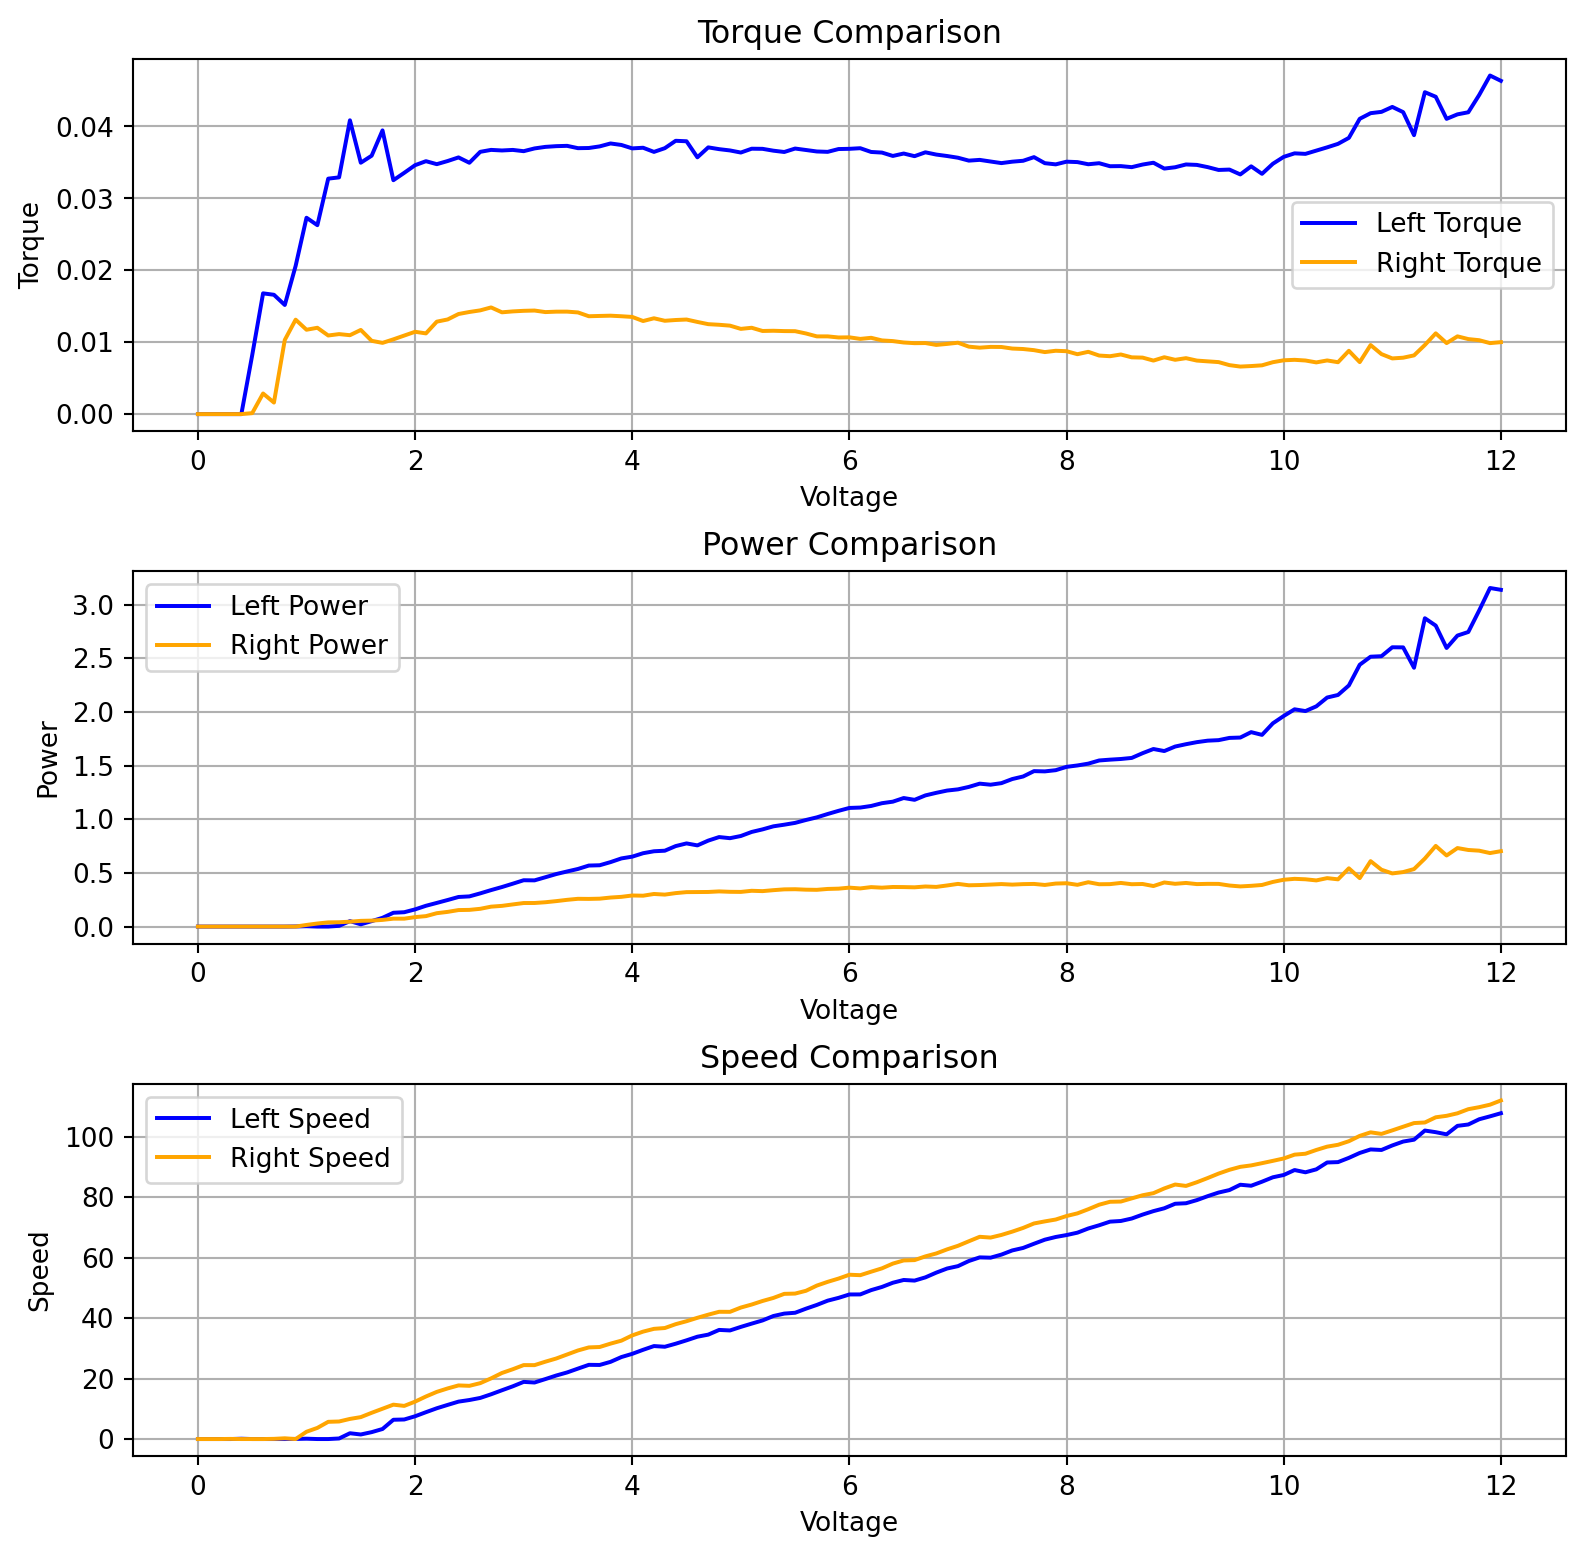
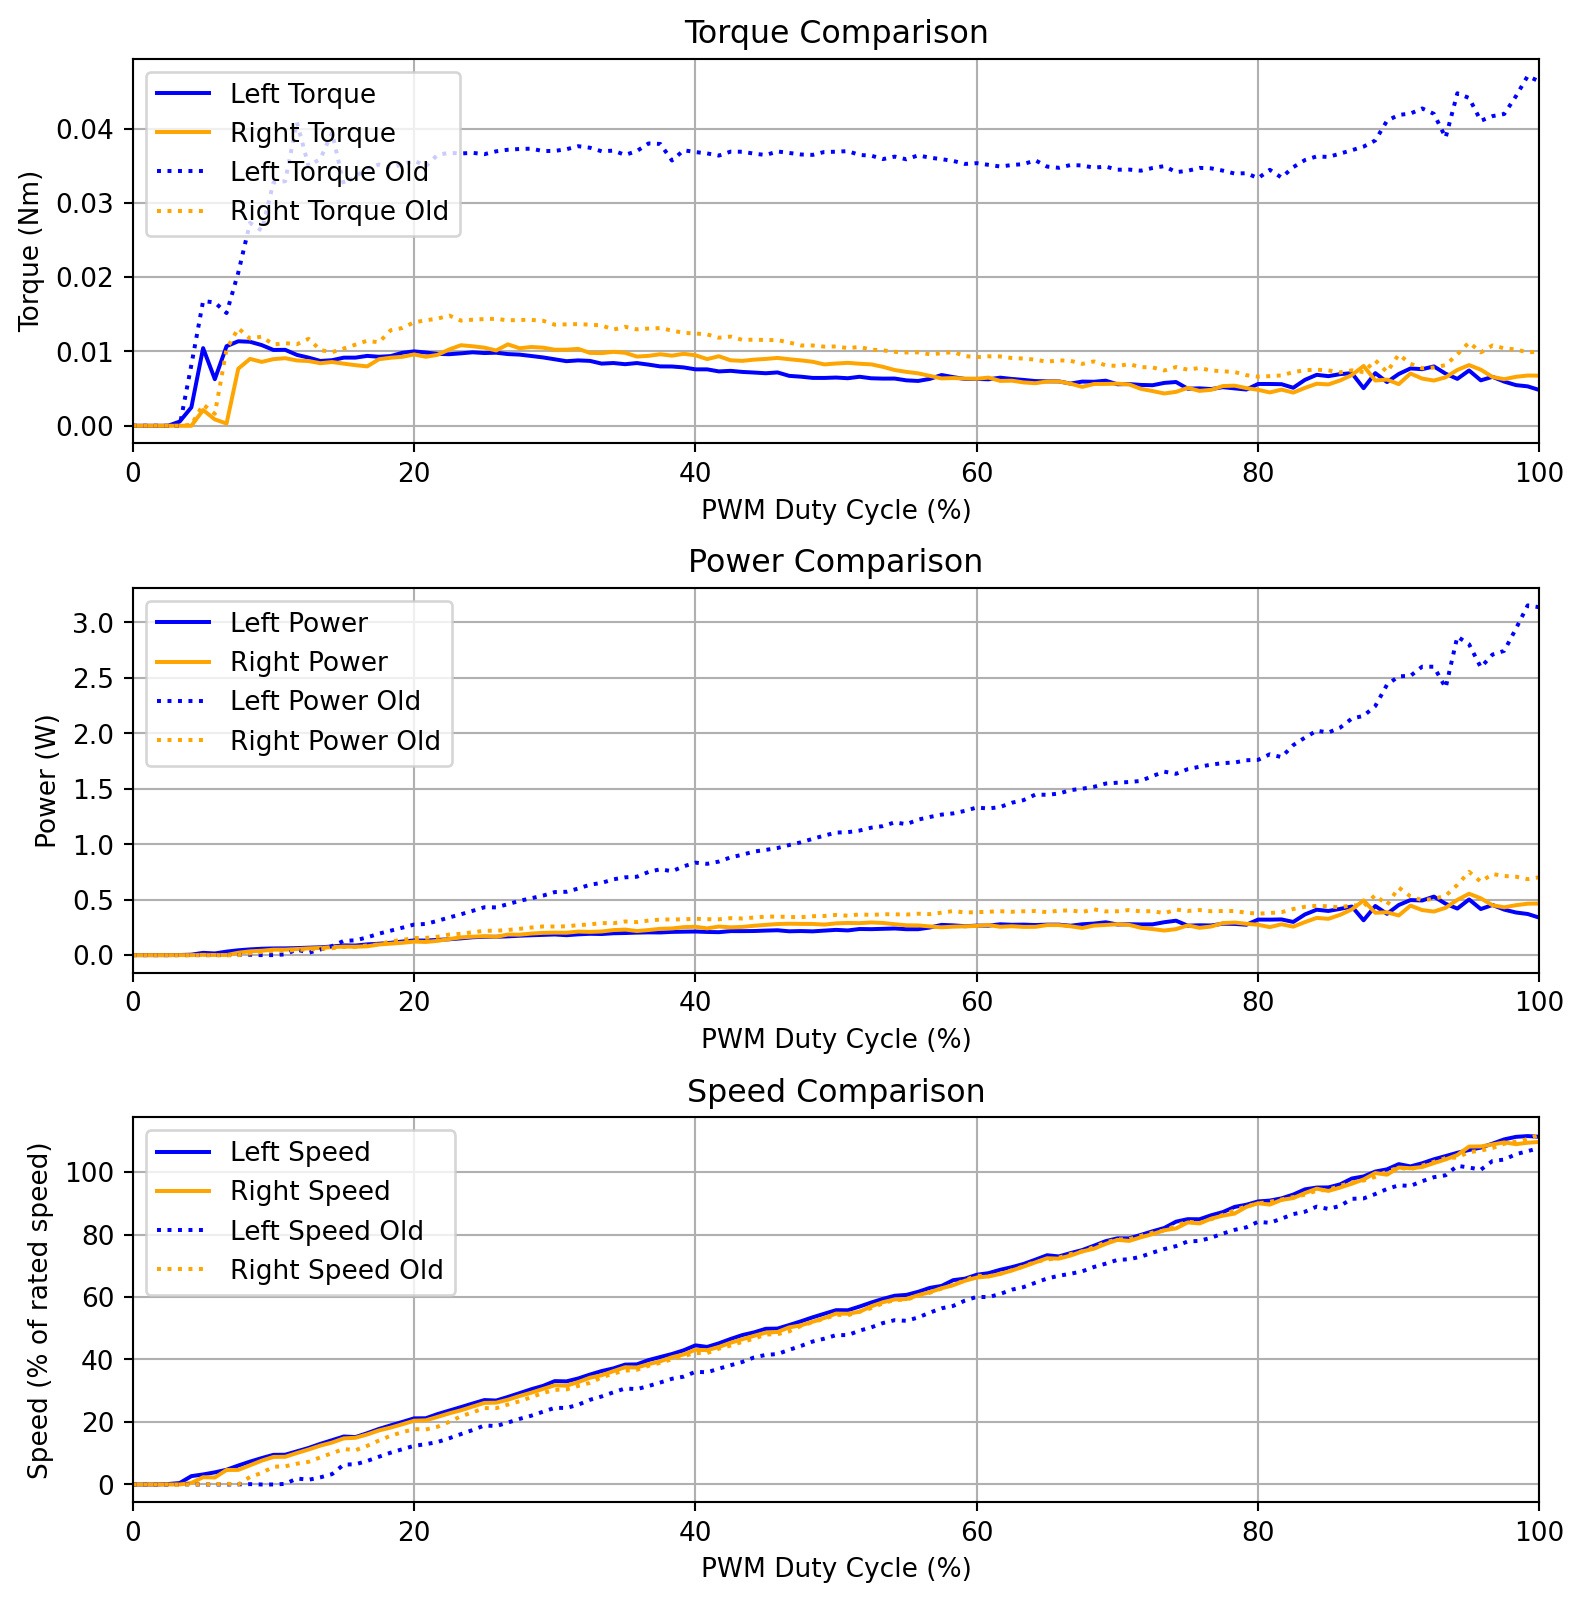
Updated drivetrain friction data and plot

diff --git a/sim/plot_drivetrain_properties.py b/sim/plot_drivetrain_properties.py
@@ -1,0 +1,65 @@
+import json
+import matplotlib.pyplot as plt
+import numpy as np
+
+# Function to rescale voltage data to 0-100 range
+def rescale_voltage(voltage_data):
+    min_voltage = min(voltage_data)
+    max_voltage = max(voltage_data)
+    return [(v - min_voltage) / (max_voltage - min_voltage) * 100 for v in voltage_data]
+
+# Load JSON data for the left and right drivetrain
+with open('drivetrain_data_left.json', 'r') as file:
+    left_data_old = json.load(file)
+
+with open('drivetrain_data_right.json', 'r') as file:
+    right_data_old = json.load(file)
+
+with open('drivetrain_data_left_2.json', 'r') as file:
+    left_data = json.load(file)
+
+with open('drivetrain_data_right_2.json', 'r') as file:
+    right_data = json.load(file)
+
+# Rescale voltage data
+left_data["voltage"] = rescale_voltage(left_data["voltage"])
+right_data["voltage"] = rescale_voltage(right_data["voltage"])
+left_data_old["voltage"] = rescale_voltage(left_data_old["voltage"])
+right_data_old["voltage"] = rescale_voltage(right_data_old["voltage"])
+
+# Define the properties to plot
+properties = ["torque", "power", "speed"]
+units = {"torque": "Nm", "power": "W", "speed": "% of rated speed"}
+
+# Create subplots
+fig, axes = plt.subplots(len(properties), 1, figsize=(8, len(properties) * 3), tight_layout=True)
+
+# Plot properties for left and right sides
+for i, prop in enumerate(properties):
+    if prop in left_data:  # Check if property exists in left_data
+        axes[i].plot(left_data["voltage"], left_data.get(prop, []), label=f"Left {prop.capitalize()}", color='blue')
+    if prop in right_data:  # Check if property exists in right_data
+        axes[i].plot(right_data["voltage"], right_data.get(prop, []), label=f"Right {prop.capitalize()}", color='orange')
+    if prop in left_data_old:  # Check if property exists in left_data_old
+        axes[i].plot(left_data_old["voltage"], left_data_old.get(prop, []), label=f"Left {prop.capitalize()} Old", color='blue', linestyle=':')
+    if prop in right_data_old:  # Check if property exists in right_data_old
+        axes[i].plot(right_data_old["voltage"], right_data_old.get(prop, []), label=f"Right {prop.capitalize()} Old", color='orange', linestyle=':')
+
+    axes[i].set_title(f"{prop.capitalize()} Comparison")
+    axes[i].set_xlabel("PWM Duty Cycle (%)")
+    axes[i].set_ylabel(f"{prop.capitalize()} ({units[prop]})")
+    axes[i].set_xlim(0, 100)  # Set x-axis limits from 0 to 100
+    axes[i].legend(loc='upper left', framealpha=0.8)  # Set legend to top left with 75% transparency
+    axes[i].grid(True)
+
+# Adjust layout for better utilization of space
+plt.tight_layout()
+
+# Adjust the figure size to fit 8.5x11 paper (in inches)
+fig.set_size_inches(8.5, 8.5)
+
+# Save the figure as a high-resolution PNG file (1600 DPI)
+png_output_filename = 'drivetrain_comparison.png'
+plt.savefig(png_output_filename, format='png', dpi=190, bbox_inches='tight')
+
+plt.show()
